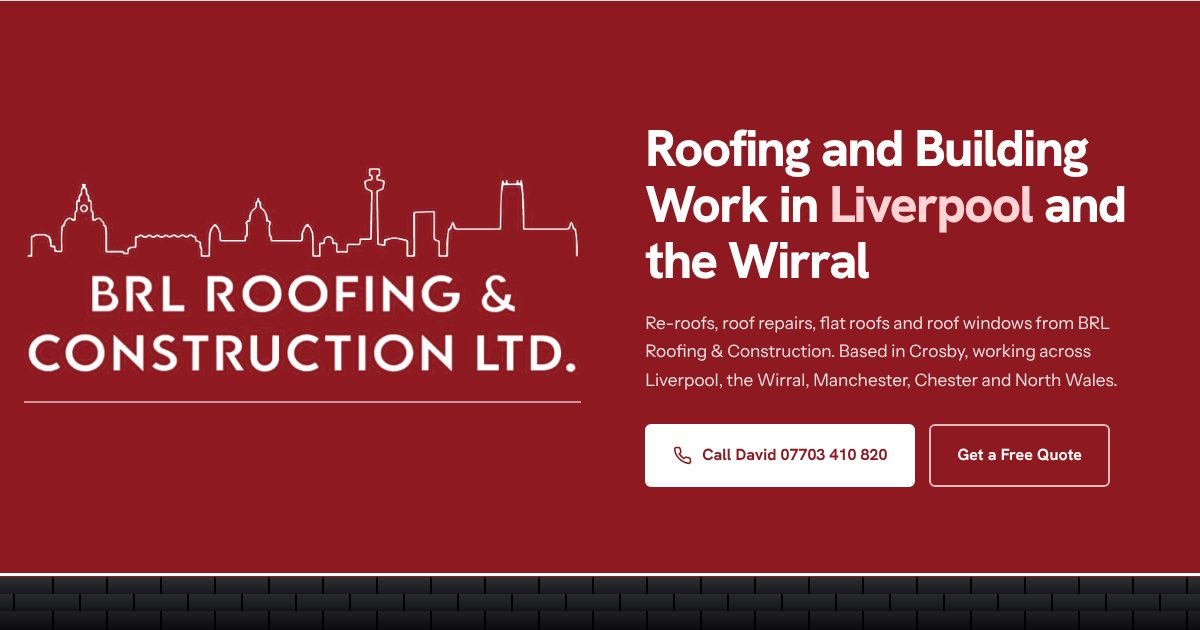
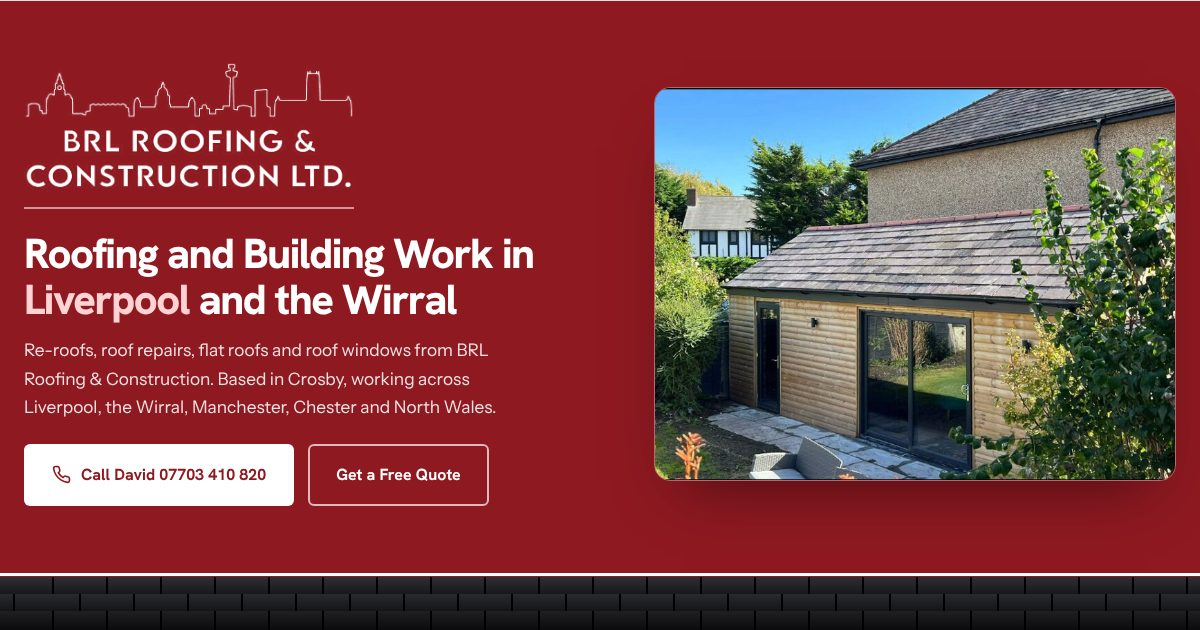
BRL Roofing & Construction A: client photos added, Roof 2 as the hero photo, before and after pairs

diff --git a/brl-roofing-construction/index.html b/brl-roofing-construction/index.html
@@ -259,6 +259,28 @@ footer{background:var(--slate2);color:rgba(255,255,255,.72);padding:64px 0 34px;
   .f-top{grid-template-columns:1fr}
   .fab{width:52px;height:52px}
 }
+
+/* hero photo (revision: client Roof 2) */
+.hero-grid{grid-template-columns:1.1fr 1fr;gap:56px}
+.hero-inner{padding-top:0}
+.hero .crest{width:min(100%,330px);margin-bottom:22px}
+@media (min-width:881px){.hero h1{font-size:clamp(2.15rem,3.5vw,3.5rem)}.hero .lede{margin-top:14px}.hero-cta{margin-top:22px}}
+.hero .crest-rule{margin-top:18px}
+.hero-photo{border-radius:16px;overflow:hidden;border:1px solid rgba(255,255,255,.35);box-shadow:0 30px 60px -30px rgba(0,0,0,.55);aspect-ratio:752/568;max-height:calc(100% - 20px);opacity:0;animation:fadeUp .8s 2.45s forwards}
+.hero-photo img{width:100%;height:100%;object-fit:cover}
+@media (max-width:880px){.hero-grid{grid-template-columns:1fr}.hero .crest{width:100%;margin-bottom:22px}.hero-photo{max-height:none;aspect-ratio:16/11}.hero-grid{gap:26px}}
+@media (prefers-reduced-motion:reduce){.hero-photo{animation:none;opacity:1}}
+/* before and after */
+.ba{margin-top:56px}
+.ba h3{font-size:1.5rem;margin-bottom:20px}
+.ba-pair{display:grid;grid-template-columns:1fr 1fr;gap:14px;margin-bottom:26px}
+.ba-pair figure{cursor:zoom-in}
+.ba-ph{aspect-ratio:4/3;border-radius:10px;overflow:hidden;border:1px solid var(--line)}
+.ba-ph img{width:100%;height:100%;object-fit:cover}
+.ba-pair figcaption{margin-top:10px;font-size:.92rem;color:var(--muted)}
+.ba-pair figcaption b{display:inline-block;margin-right:8px;padding:2px 10px;border-radius:999px;font-size:.74rem;letter-spacing:.12em;text-transform:uppercase;background:var(--stone);color:var(--ink)}
+.ba-pair figure:last-child figcaption b{background:var(--red);color:#fff}
+@media (max-width:640px){.ba-pair{grid-template-columns:1fr}}
 </style>
 </head>
 <body>
@@ -289,12 +311,12 @@ footer{background:var(--slate2);color:rgba(255,255,255,.72);padding:64px 0 34px;
 <main id="top">
 <section class="hero" style="padding:0">
   <div class="wrap hero-grid">
+    <div class="hero-inner">
     <div class="crest">
       <img class="crest-sky" src="logo-skyline.png" alt="" width="727" height="123">
       <img class="crest-words" src="logo-words.png" alt="BRL Roofing &amp; Construction Ltd" width="727" height="144">
       <div class="crest-rule"></div>
     </div>
-    <div class="hero-inner">
       <h1>Roofing and Building Work in <span class="hl">Liverpool</span> and the Wirral</h1>
       <p class="lede">Re-roofs, roof repairs, flat roofs and roof windows from BRL Roofing &amp; Construction. Based in Crosby, working across Liverpool, the Wirral, Manchester, Chester and North Wales.</p>
       <div class="hero-cta">
@@ -302,6 +324,7 @@ footer{background:var(--slate2);color:rgba(255,255,255,.72);padding:64px 0 34px;
         <a class="btn btn-ghost" href="#contact">Get a Free Quote</a>
       </div>
     </div>
+    <figure class="hero-photo"><img src="client-roof2.jpg" alt="New tiled roof on a timber clad garden room extension" width="752" height="568" fetchpriority="high"></figure>
   </div>
   <div class="slates" aria-hidden="true"><div class="ridge"></div><div class="course c1"></div><div class="course c2"></div><div class="course c3"></div></div>
 </section>
@@ -320,8 +343,8 @@ footer{background:var(--slate2);color:rgba(255,255,255,.72);padding:64px 0 34px;
   <div class="wrap">
     <div class="sec-head reveal"><h2>Our Roofing <span class="acc">Services</span></h2></div>
     <div class="svc-grid">
-      <article class="svc reveal"><div class="svc-img"><img src="work-reroof.jpg" alt="Pitched roof stripped back to new battens around a roof window" loading="lazy" width="901" height="901"></div><div class="svc-body"><h3>Re-roofs</h3><p>Stripped back, new membrane and battens, then retiled or reslated.</p></div></article>
-      <article class="svc reveal"><div class="svc-img"><img src="work-rooflight.jpg" alt="Roof window set into a tiled roof" loading="lazy" width="600" height="600"></div><div class="svc-body"><h3>Roof Windows</h3><p>New roof windows fitted and flashed into tiled or slate roofs.</p></div></article>
+      <article class="svc reveal"><div class="svc-img"><img src="client-after2.jpg" alt="Hipped roof finished in new grey tiles with a new ridge" loading="lazy" width="478" height="598"></div><div class="svc-body"><h3>Re-roofs</h3><p>Stripped back, new membrane and battens, then retiled or reslated.</p></div></article>
+      <article class="svc reveal"><div class="svc-img"><img src="client-roof1.jpg" alt="New tiled extension roof with a roof window" loading="lazy" width="752" height="559"></div><div class="svc-body"><h3>Roof Windows</h3><p>New roof windows fitted and flashed into tiled or slate roofs.</p></div></article>
       <article class="svc reveal"><div class="svc-img"><img src="flat-roof-epdm-skylight-extension.jpg" alt="Rubber flat roof on a rear extension with a rooflight" loading="lazy" width="547" height="365"></div><div class="svc-body"><h3>Flat Roofing</h3><p>Rubber and felt flat roofs for extensions, garages and dormers.</p></div></article>
       <article class="svc reveal"><div class="svc-img"><img src="slate-roof-crested-ridge-detail.jpg" alt="Slate roof with crested ridge tiles" loading="lazy" width="607" height="505"></div><div class="svc-body"><h3>Roof Repairs</h3><p>Slipped slates, broken tiles, ridges rebedded and leaks traced.</p></div></article>
       <article class="svc reveal"><div class="svc-img"><img src="lead-flashing-stone-chimney-slate.jpg" alt="New lead flashing around a stone chimney on a slate roof" loading="lazy" width="480" height="640"></div><div class="svc-body"><h3>Leadwork and Chimneys</h3><p>Flashings, valleys and chimney repairs, sealed against the weather.</p></div></article>
@@ -350,11 +373,16 @@ footer{background:var(--slate2);color:rgba(255,255,255,.72);padding:64px 0 34px;
     <div class="sec-head reveal"><h2>Recent Work Around the <span class="acc">Mersey</span></h2></div>
     <div class="gal-grid">
       <figure class="reveal"><div class="gal-ph"><img src="work-reroof.jpg" alt="Re-roof in progress with new battens" loading="lazy" width="901" height="901"></div><figcaption>New battens going on around a roof window</figcaption></figure>
-      <figure class="reveal"><div class="gal-ph"><img src="view-mersey-1.jpg" alt="View across the Mersey from roof height" loading="lazy" width="900" height="900"></div><figcaption>Across the Mersey from roof height</figcaption></figure>
+      <figure class="reveal"><div class="gal-ph"><img src="client-roof1.jpg" alt="New tiled extension roof with a roof window" loading="lazy" width="752" height="559"></div><figcaption>Extension roof in new tiles with a roof window</figcaption></figure>
       <figure class="reveal"><div class="gal-ph"><img src="view-scaffold.jpg" alt="Scaffold above a residential street" loading="lazy" width="901" height="901"></div><figcaption>Scaffold up, looking down the street</figcaption></figure>
       <figure class="reveal"><div class="gal-ph"><img src="view-docks.jpg" alt="Rooftops and the river from a roof" loading="lazy" width="900" height="900"></div><figcaption>Rooftops down to the river</figcaption></figure>
       <figure class="reveal"><div class="gal-ph"><img src="work-rooflight.jpg" alt="Roof window in a tiled roof" loading="lazy" width="600" height="600"></div><figcaption>Roof window set into the tiles</figcaption></figure>
-      <figure class="reveal"><div class="gal-ph"><img src="view-mersey-2.jpg" alt="Roofs and the river on a grey day" loading="lazy" width="900" height="900"></div><figcaption>Roofs and the river on a grey day</figcaption></figure>
+      <figure class="reveal"><div class="gal-ph"><img src="client-roof2.jpg" alt="New tiled roof on a garden room extension" loading="lazy" width="752" height="568"></div><figcaption>New tiled roof on a garden room</figcaption></figure>
+    </div>
+    <div class="ba">
+      <h3 class="reveal">Before and After</h3>
+      <div class="ba-pair reveal"><figure><div class="ba-ph"><img src="client-before2.jpg" alt="Hipped roof before, old tiles covered in moss" loading="lazy" width="678" height="828"></div><figcaption><b>Before</b>Hipped roof, old mossy tiles</figcaption></figure><figure><div class="ba-ph"><img src="client-after2.jpg" alt="Hipped roof after, new grey tiles and ridge" loading="lazy" width="478" height="598"></div><figcaption><b>After</b>New tiles and ridge</figcaption></figure></div>
+      <div class="ba-pair reveal"><figure><div class="ba-ph"><img src="client-before1.jpg" alt="Front canopy roof before, with scaffold up" loading="lazy" width="752" height="442"></div><figcaption><b>Before</b>Front canopy roof, scaffold up</figcaption></figure><figure><div class="ba-ph"><img src="client-after1.jpg" alt="Front canopy roof after, finished in new tiles" loading="lazy" width="752" height="459"></div><figcaption><b>After</b>Front canopy roof in new tiles</figcaption></figure></div>
     </div>
   </div>
 </section>
@@ -463,7 +491,7 @@ footer{background:var(--slate2);color:rgba(255,255,255,.72);padding:64px 0 34px;
   document.querySelectorAll('.reveal').forEach(function(el){io.observe(el);});
 
   var lb=document.getElementById('lb'),li=lb.querySelector('img');
-  document.querySelectorAll('.gal figure').forEach(function(f){f.addEventListener('click',function(){var i=f.querySelector('img');li.src=i.src;li.alt=i.alt;lb.classList.add('on');});});
+  document.querySelectorAll('.gal figure, .ba-pair figure').forEach(function(f){f.addEventListener('click',function(){var i=f.querySelector('img');li.src=i.src;li.alt=i.alt;lb.classList.add('on');});});
   lb.addEventListener('click',function(){lb.classList.remove('on');});
 })();
 </script>
